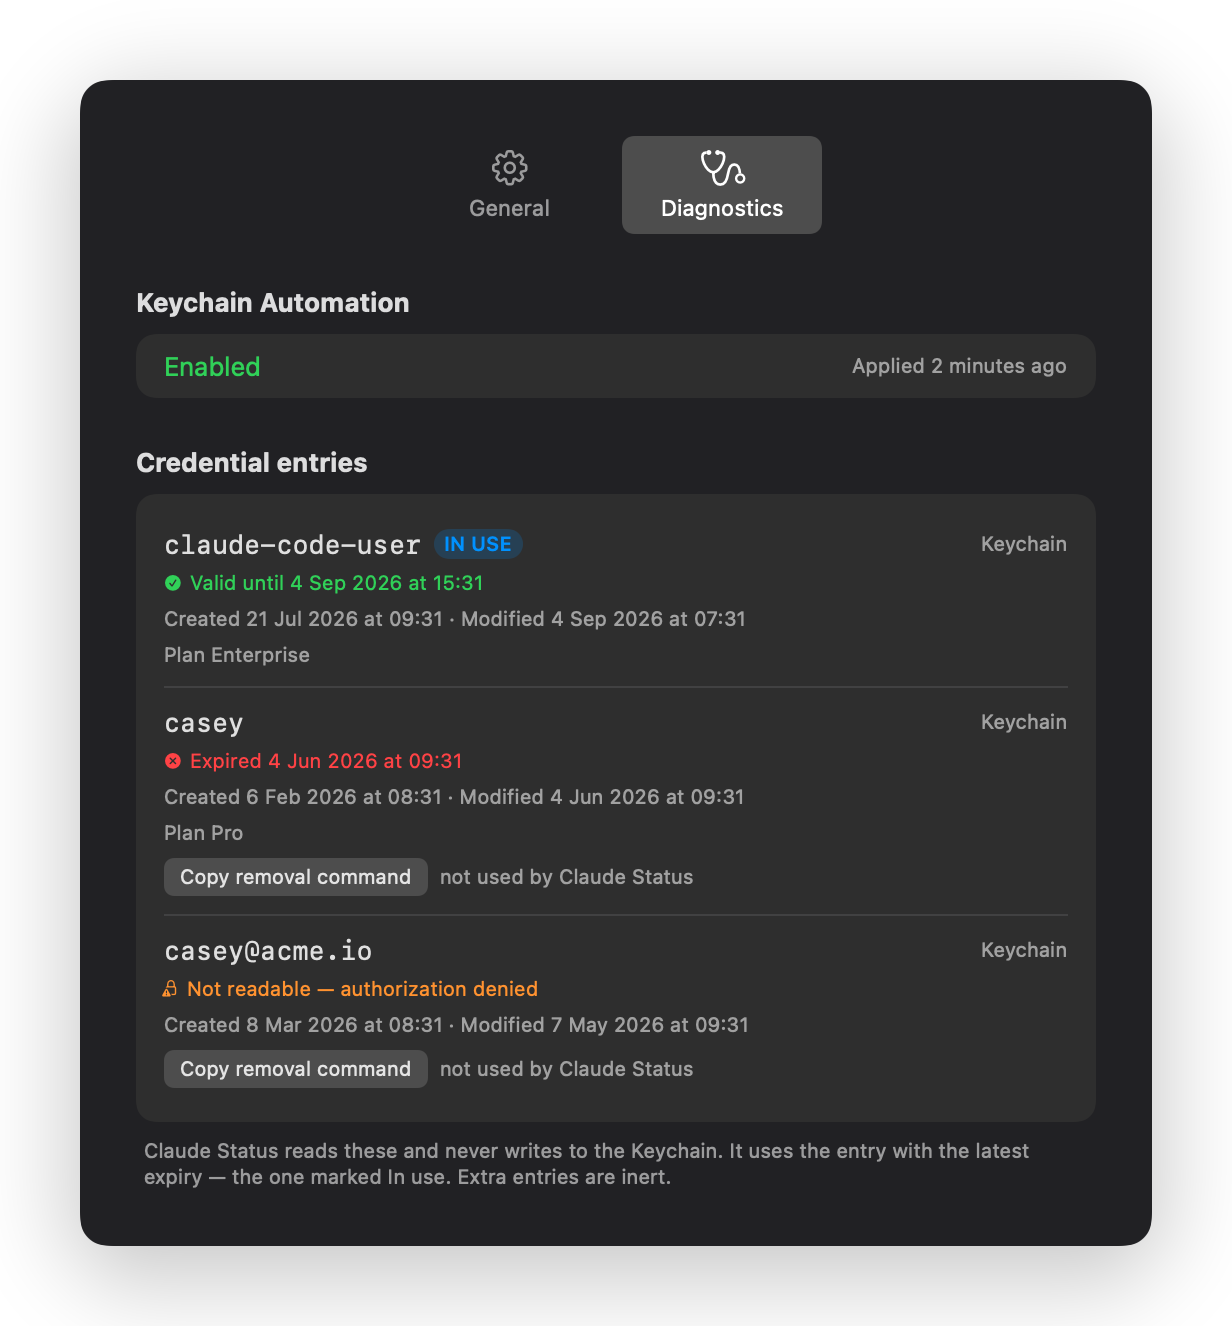
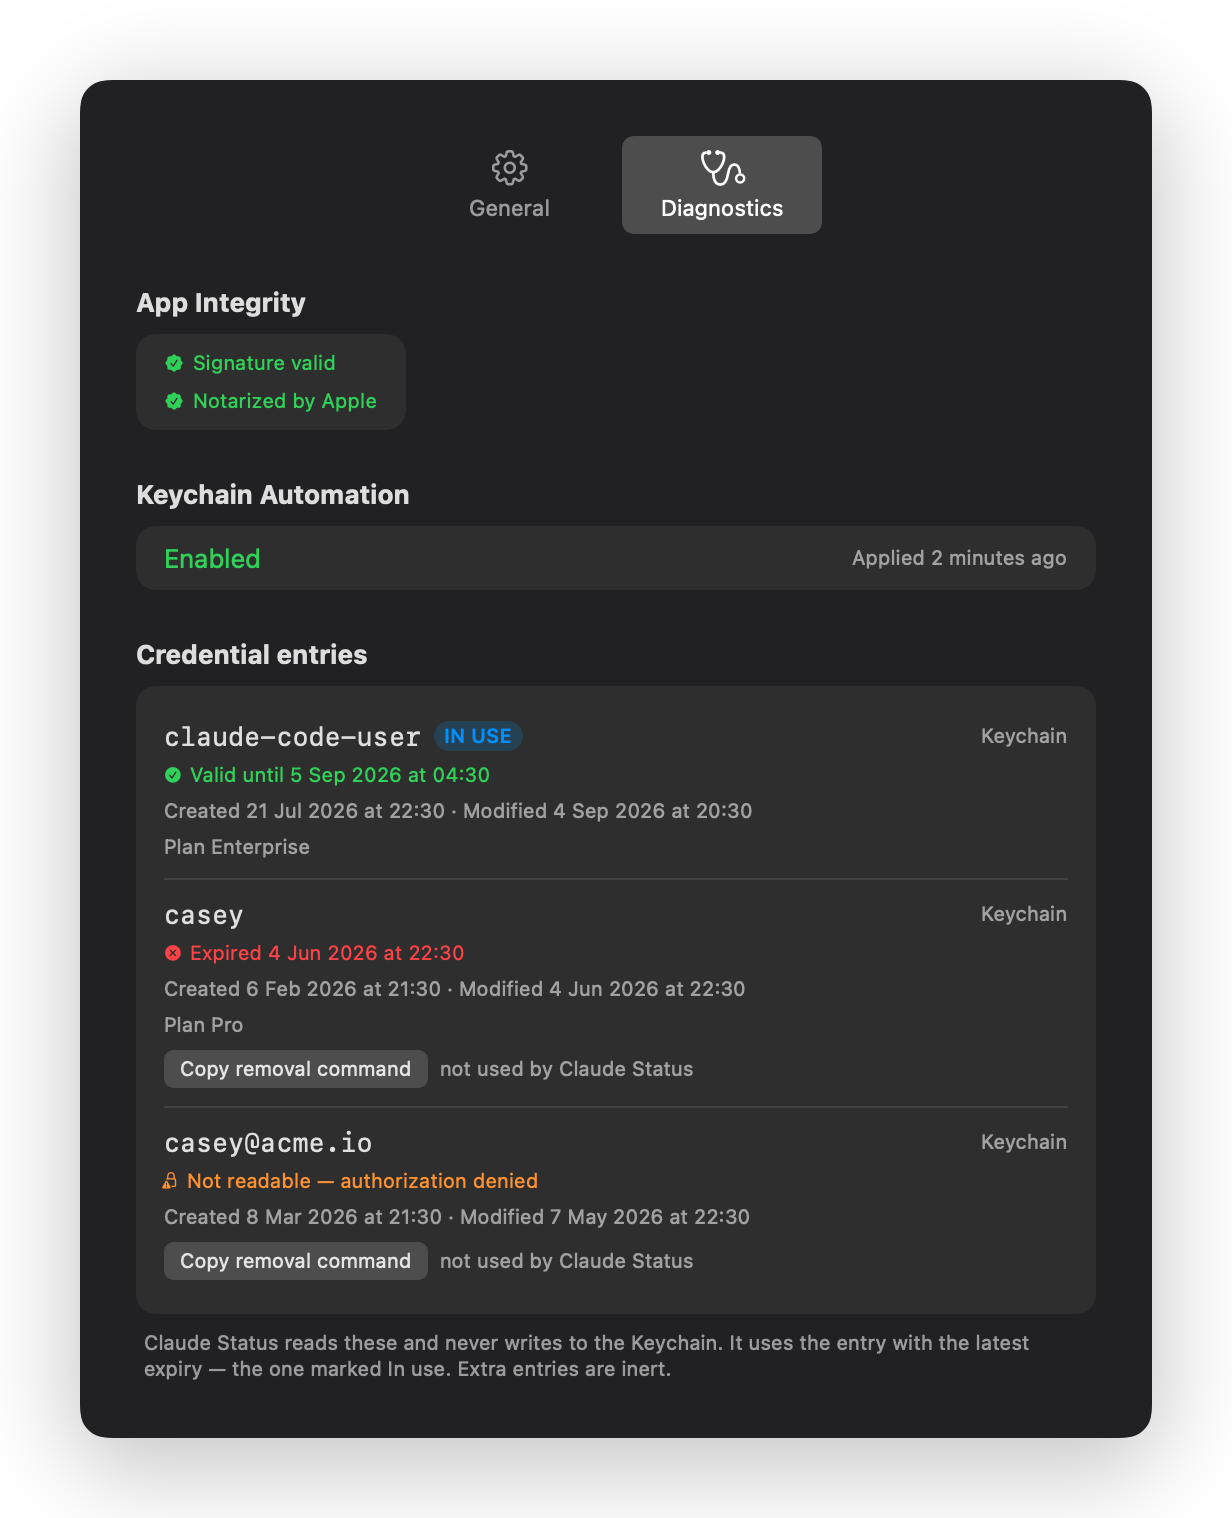
Release 0.2.1
Diagnostics: App Integrity check (signature + notarization status).
Regenerates Settings/Diagnostics screenshots to show it.

diff --git a/Sources/ClaudeStatus/ScreenshotMode.swift b/Sources/ClaudeStatus/ScreenshotMode.swift
@@ -12,7 +12,7 @@ enum ScreenshotMode {
     /// The screenshot binary runs outside an .app bundle, so there's no
     /// Info.plist to read — keep this in step with `version` in
     /// Bundler.toml (the release checklist calls it out).
-    static let displayVersion = "v0.2.0 (1)"
+    static let displayVersion = "v0.2.1 (1)"
 
     /// Render screenshots with anonymous demo data.
     ///   kind = enterprise | pro            (full-canvas App-Store gallery)
@@ -349,6 +349,20 @@ private struct StaticDiagnosticsView: View {
             SettingsTabStrip(active: .diagnostics, scheme: scheme)
 
             VStack(alignment: .leading, spacing: 8) {
+                Text("App Integrity").font(.headline)
+                VStack(alignment: .leading, spacing: 6) {
+                    integrityLine("Signature valid")
+                    integrityLine("Notarized by Apple")
+                }
+                .padding(.vertical, 8)
+                .padding(.horizontal, 14)
+                .background(
+                    RoundedRectangle(cornerRadius: 10)
+                        .fill(scheme == .dark ? Color(white: 0.18) : Color.white)
+                )
+            }
+
+            VStack(alignment: .leading, spacing: 8) {
                 Text("Keychain Automation").font(.headline)
                 HStack {
                     Text("Enabled").foregroundStyle(.green)
@@ -468,6 +482,10 @@ private struct StaticDiagnosticsView: View {
         }
         .font(.caption)
         .foregroundStyle(tint)
+    }
+
+    private func integrityLine(_ text: String) -> some View {
+        label(text, systemImage: "checkmark.seal.fill", tint: .green)
     }
 
     private var divider: some View {

diff --git a/Casks/claude-status.rb b/Casks/claude-status.rb
@@ -1,6 +1,6 @@
 cask "claude-status" do
-  version "0.2.0"
[1 lines of base64/hex data omitted]
+  version "0.2.1"
[1 lines of base64/hex data omitted]
 
   url "https://github.com/bcollard/claude-status-macos-menu-bar/releases/download/v#{version}/ClaudeStatus.dmg"
   name "Claude Status"
